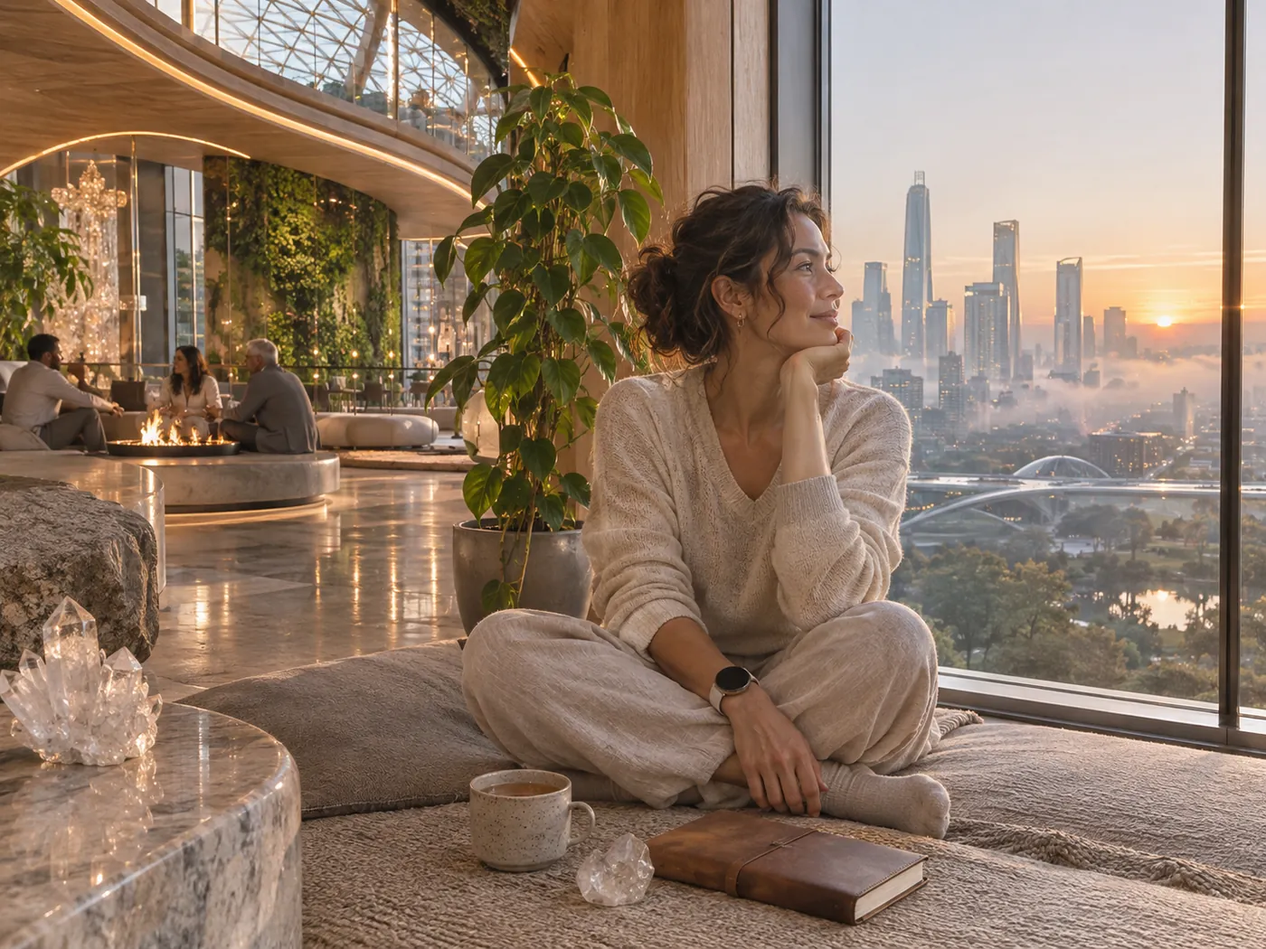
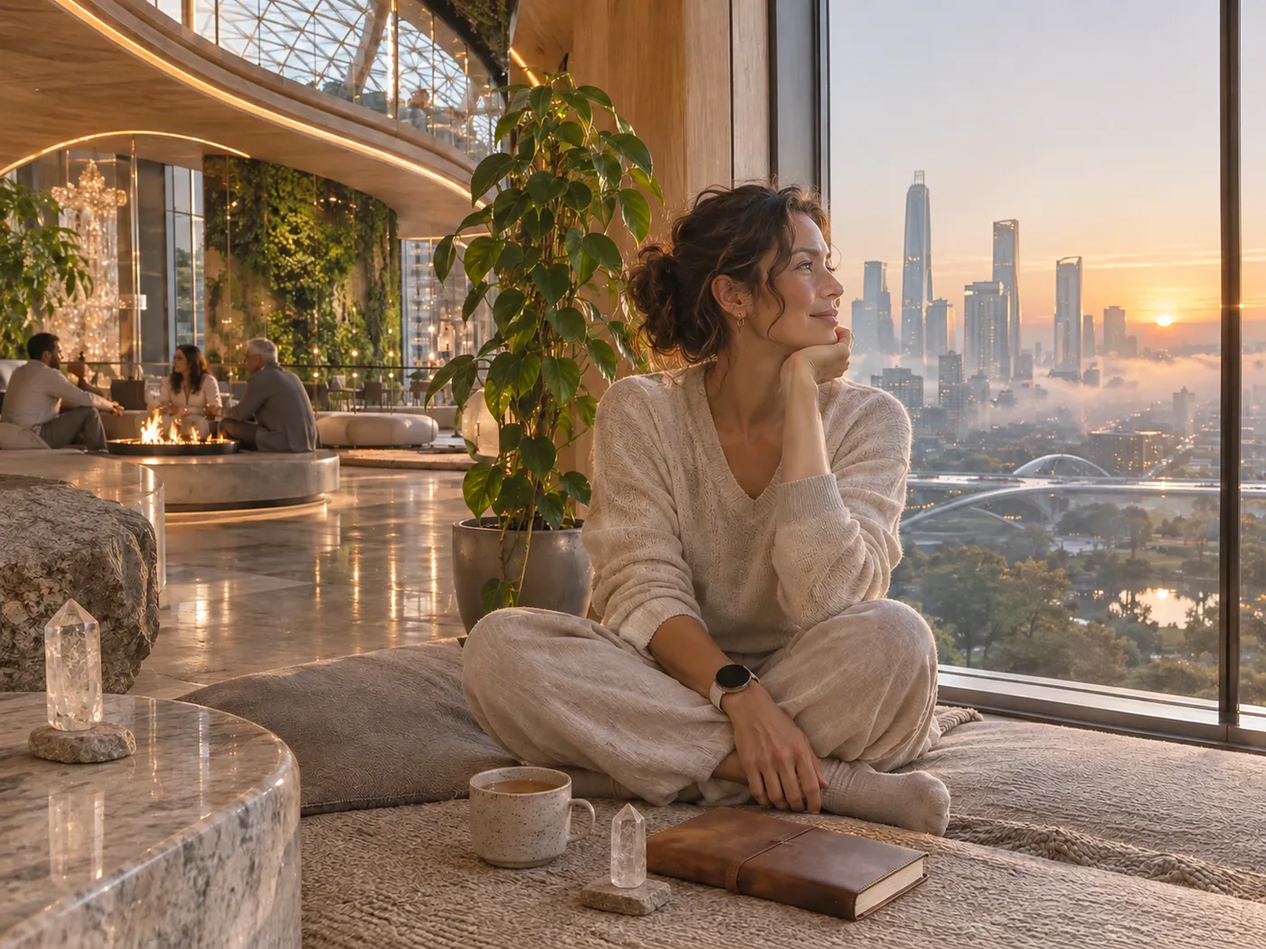
Crystals as placed vertical points, local stone, fluid roadmap stepper
- Re-edit 13 images: crystals become one to three vertical quartz points
  on stone or timber pedestals, no multi-directional clusters
- Add local stone to the materials toolbox and a new section on stone and
  materials by candidate region, with sources
- Add a Local stone card to the city page and crystal guidelines to the
  visual language and color docs
- Rebuild the roadmap stepper: each stage is a self-contained block so
  numbers never shift; mobile rail scrolls with snap and follows the
  selected stage

diff --git a/website/src/components/Home/home.css b/website/src/components/Home/home.css
@@ -243,16 +243,22 @@ html:has(.lc-home){scroll-behavior:smooth;scroll-padding-top:72px;-webkit-text-s
 /* ROADMAP */
 .lc-home .roadmap{position:relative;padding-block:clamp(var(--space-20),10vw,var(--space-32));overflow:hidden;isolation:isolate}
 .lc-home .roadmap-bg{position:absolute;right:-8%;top:0;height:100%;width:55%;object-fit:cover;z-index:-1;opacity:.35;mask-image:linear-gradient(90deg,transparent,#000 60%);-webkit-mask-image:linear-gradient(90deg,transparent,#000 60%)}
-.lc-home .stages{position:relative;display:grid;grid-template-columns:repeat(6,1fr);gap:var(--space-2)}
-.lc-home .stages::before{content:"";position:absolute;left:0;right:0;top:21px;height:2px;background:var(--night-line)}
-.lc-home .stages::after{content:"";position:absolute;left:0;top:21px;height:2px;width:calc(var(--prog,0)*1%);background:linear-gradient(90deg,var(--gold),var(--gold-glow));transition:width 1.6s var(--ease)}
-.lc-home .stage{position:relative;z-index:1;text-align:left;padding-top:0;min-height:44px}
-.lc-home .stage .dot{display:grid;place-items:center;width:44px;height:44px;border-radius:50%;background:var(--night);border:1.5px solid var(--night-line);font:400 1rem var(--display);transition:all .3s}
+/* Roadmap stepper: each stage is a self-contained block (dot + connector + label), so rows never shift */
+.lc-home .stages{--dot:44px;--gap:var(--space-4);position:relative;display:grid;grid-template-columns:repeat(6,minmax(0,1fr));gap:var(--gap);margin:0;padding:0;list-style:none}
+.lc-home .stage{position:relative;display:flex;flex-direction:column;align-items:flex-start;justify-content:flex-start;gap:0;min-width:0;margin:0;padding:0;border:0;background:none;color:inherit;font:inherit;text-align:left;cursor:pointer;-webkit-tap-highlight-color:transparent}
+.lc-home .stage::before{content:"";position:absolute;top:calc(var(--dot)/2 - 1px);left:calc(var(--dot) + 6px);right:calc(-1*var(--gap) + 6px);height:2px;border-radius:1px;background:var(--night-line)}
+.lc-home .stage:last-child::before{display:none}
+.lc-home .stage.done::before{background:var(--gold-glow)}
+.lc-home .stage.current::before{background:linear-gradient(90deg,var(--gold-hi) 0,var(--gold-hi) 35%,var(--night-line) 35%)}
+.lc-home .stage .dot{flex:0 0 auto;display:grid;place-items:center;width:var(--dot);height:var(--dot);border-radius:50%;background:var(--night);border:1.5px solid var(--night-line);font:400 1rem/1 var(--display);transition:box-shadow .3s,border-color .3s,background .3s}
+.lc-home .stage:hover .dot,.lc-home .stage:focus-visible .dot{border-color:var(--gold-glow)}
+.lc-home .stage:focus-visible{outline:none}
 .lc-home .stage.done .dot{border-color:var(--gold-glow);color:var(--gold-glow)}
 .lc-home .stage.current .dot{background:var(--gold-hi);color:var(--ink);border-color:var(--gold-hi);box-shadow:0 0 0 6px rgba(233,184,90,.18)}
 .lc-home .stage[aria-selected="true"] .dot{box-shadow:0 0 0 6px rgba(246,211,140,.32)}
-.lc-home .stage .st{display:block;margin-top:var(--space-4);font-weight:600;font-size:var(--text-sm)}
-.lc-home .stage .sd{display:block;font-size:var(--text-xs);color:var(--night-muted)}
+.lc-home .stage .st{display:block;margin-top:var(--space-4);font-weight:600;font-size:var(--text-sm);line-height:1.3;white-space:nowrap}
+.lc-home .stage .sd{display:block;margin-top:2px;font-size:var(--text-xs);line-height:1.4;color:var(--night-muted)}
+.lc-home .stage[aria-selected="true"] .st{color:var(--gold-glow)}
 .lc-home .stage-detail{margin-top:var(--space-12);display:grid;grid-template-columns:1fr 1fr;gap:var(--space-10);max-width:960px;background:rgba(20,23,37,.7);backdrop-filter:blur(10px);border:1px solid var(--night-line);border-radius:var(--r-lg);padding:var(--space-8)}
 .lc-home .stage-detail h3{font:400 var(--text-xl)/1.1 var(--display)}
 .lc-home .stage-detail .when{color:var(--gold-glow);font-size:var(--text-sm);margin-top:var(--space-2)}
@@ -343,7 +349,9 @@ html:has(.lc-home){scroll-behavior:smooth;scroll-padding-top:72px;-webkit-text-s
   .lc-home .kpis>div:nth-child(n+3){border-top:1px solid var(--night-line)}
   .lc-home .day-scroll{overflow-x:auto;margin:0 calc(-1 * var(--space-5));padding:0 var(--space-5);scrollbar-width:none}
   .lc-home .day-track{min-width:560px}
-  .lc-home .stages{grid-template-columns:repeat(6,minmax(96px,1fr));overflow-x:auto;padding-bottom:var(--space-3)}
+  .lc-home .stages{display:flex;grid-template-columns:none;overflow-x:auto;overscroll-behavior-x:contain;scroll-snap-type:x mandatory;scroll-padding-inline:var(--space-3);-webkit-overflow-scrolling:touch;scrollbar-width:none;padding:8px var(--space-3) var(--space-3);margin-inline:calc(-1*var(--space-3))}
+  .lc-home .stages::-webkit-scrollbar{display:none}
+  .lc-home .stage{flex:0 0 128px;scroll-snap-align:start}
   .lc-home .stage-detail{grid-template-columns:1fr;padding:var(--space-6)}
   .lc-home .compare{grid-template-columns:1fr}
   .lc-home .cmp-a,.lc-home .cmp-b,.lc-home .cmp-c,.lc-home .cmp-d{grid-column:auto;grid-row:auto}

diff --git a/website/src/pages/city.tsx b/website/src/pages/city.tsx
@@ -51,7 +51,7 @@ export default function City(): JSX.Element {
         <Feature
           reverse
           img="city-dome-cutaway"
-          alt="Inside a timber gridshell dome: terraced apartments, a garden atrium, a quartz crystal sculpture and a sunken fire lounge"
+          alt="Inside a timber gridshell dome: terraced apartments, a garden atrium, tall quartz points on stone pedestals and a sunken fire lounge"
           kicker="Neighborhood"
           title="Communosphere"
           tag="TRL 7–9"
@@ -61,18 +61,18 @@ export default function City(): JSX.Element {
         </Feature>
         <Feature
           img="city-temple"
-          alt="Circular timber temple with an oculus lighting a central quartz crystal and a fire bowl"
+          alt="Circular timber temple with an oculus lighting a single tall quartz point on a round stone pedestal and a fire bowl"
           kicker="Inner ring"
           title="Temple & plaza"
           tag="TRL 9"
           specs={[['Use', 'Meditation, ceremony, gatherings'], ['Access', 'Open to all, no doctrine'], ['Build', 'Timber, rammed earth, stone'], ['Plaza', 'Markets, festivals, daily life']]}>
-          <p>A non-denominational temple for silence, meditation and community ceremonies, proportioned with sacred geometry, with a central crystal under the oculus and a fire bowl for evening gatherings. Participation in any practice is always voluntary.</p>
+          <p>A non-denominational temple for silence, meditation and community ceremonies, proportioned with sacred geometry, with a single upright quartz point on a stone pedestal under the oculus and a fire bowl for evening gatherings. Participation in any practice is always voluntary.</p>
           <p>The plaza beside it is the city's living room: morning markets, performances, seasonal festivals and the everyday crossing point of the whole community.</p>
         </Feature>
         <Feature
           reverse
           img="city-studios"
-          alt="Modern maker studio with a CNC router, 3D printer, woodworking benches and crystal cutting"
+          alt="Modern maker studio with a CNC router, 3D printer, woodworking benches and a quartz point on a timber stand"
           kicker="Middle ring"
           title="Studios & workshops"
           tag="TRL 9"
@@ -118,7 +118,7 @@ export default function City(): JSX.Element {
         </div>
       </Section>
 
-      <Section id="beyond-the-box" eyebrow="Beyond the box" title="Curved, healthy and affordable." lead="High-tech design, low-tech materials: computers find efficient curved shapes, then we build them from earth, timber, bamboo and lime that residents can handle. Curves use less material, hold heat better and are rated more beautiful in brain-imaging studies.">
+      <Section id="beyond-the-box" eyebrow="Beyond the box" title="Curved, healthy and affordable." lead="High-tech design, low-tech materials: computers find efficient curved shapes, then we build them from earth, stone, timber, bamboo and lime that residents can handle, chosen from what each site provides. Curves use less material, hold heat better and are rated more beautiful in brain-imaging studies.">
         <Feature
           img="form-printed-earth"
           alt="A cluster of 3D-printed earth dwellings with green roofs and a printer finishing a fourth dome"
@@ -142,6 +142,7 @@ export default function City(): JSX.Element {
         <div style={{marginTop: '3rem'}} />
         <Cards items={[
           {title: 'Clay plaster everywhere', kicker: 'Healthy interiors', img: 'form-earth-dome', text: 'Holds indoor humidity steady and removes ozone. The cheapest health upgrade, and it works on curves and in existing homes.'},
+          {title: 'Local stone', kicker: 'Materials follow the place', text: 'Plinths, terrace walls, hearths and paths in the stone of each region: granite and schist in Portugal, sandstone in New Mexico, basalt on volcanic land. Lowest carbon when quarried nearby.'},
           {title: 'Thin shells', kicker: 'Canopies & floors', img: 'form-thin-shell', text: 'Arched shells carry load in compression, using over 70% less concrete and allowing earth or recycled mixes.'},
           {title: 'Curved shell, efficient core', kicker: 'Practical', text: 'Kitchens, baths and storage stay straight inside curved rooms, so standard fittings still work and costs stay down.'},
           {title: 'Bio-resonance as research', kicker: 'Frontier', text: 'We will compare matched curved and boxy rooms for sleep, stress and acoustics with university partners, and publish results either way.'},

diff --git a/website/src/pages/homes.tsx b/website/src/pages/homes.tsx
@@ -33,11 +33,11 @@ export default function Homes(): JSX.Element {
       <Section alt id="types" eyebrow="Home types" title="Choose the scale of private life you need.">
         <Feature
           img="home-tiny"
-          alt="Four curved-timber tiny homes with green roofs and large windows around a courtyard garden with a sunken fire circle and a quartz crystal, a glass dome behind"
+          alt="Four curved-timber tiny homes with green roofs and large windows around a courtyard garden with a sunken fire circle and a vertical quartz point set on a stone base, a glass dome behind"
           kicker="Tiny home · 200–300 sf"
           title="Tiny home"
           tag="$500–700 / month">
-          <p>A self-contained curved-timber home with a sleeping niche, a compact kitchen and bath, big windows and a deck. Tiny homes are grouped in fours around a shared courtyard with planted beds, a sunken fire circle and a crystal centerpiece, so neighbors share outdoor space naturally.</p>
+          <p>A self-contained curved-timber home with a sleeping niche, a compact kitchen and bath, big windows and a deck. Tiny homes are grouped in fours around a shared courtyard with planted beds, a sunken fire circle and a single quartz point on a stone base, so neighbors share outdoor space naturally.</p>
           <ul>
             <li><strong>Best for:</strong> singles, artists, newcomers and contribution-based residents</li>
             <li><strong>Where:</strong> garden clusters on the outer ring, a short walk from a communosphere</li>
@@ -47,7 +47,7 @@ export default function Homes(): JSX.Element {
         <Feature
           reverse
           img="home-studio"
-          alt="Modern studio with curved timber walls, a bed niche, a crystal pendant light and a window over the dome atrium"
+          alt="Modern studio with curved timber walls, a bed niche, a glass pendant light and a window over the dome atrium"
           kicker="Studio · 400–500 sf"
           title="Studio"
           tag="$700–950 / month">

diff --git a/website/src/components/Home/initHome.ts b/website/src/components/Home/initHome.ts
@@ -172,9 +172,12 @@ const ST: Array<[string, string, string, string, string[], string[]]> = [
   ['Operational', '2032 onward', '', 'Break-even and the move to community governance.', [], ['200 residents, break-even at 180', 'Community Council with 80% consent threshold', 'Phase 2 planning (1,500 residents)']],
 ];
 const stages = $('#stages'), sd = $('#stageDetail');
-stages.innerHTML = ST.map(([n, w, st], i) => `<button class="stage ${st === 'current' ? 'current' : ''}" role="tab" aria-selected="false" data-i="${i}"><span class="dot">${i + 1}</span><span class="st">${n}</span><span class="sd">${w}</span></button>`).join('');
+const cur = ST.findIndex(r => r[2] === 'current');
+stages.innerHTML = ST.map(([n, w, st], i) => `<button type="button" class="stage ${st === 'current' ? 'current' : i < cur ? 'done' : ''}" role="tab" aria-selected="false" data-i="${i}"><span class="dot">${i + 1}</span><span class="st">${n}</span><span class="sd">${w}</span></button>`).join('');
 function stage(i: number) {
   $$('.stage').forEach(b => b.setAttribute('aria-selected', String(+b.dataset.i === i)));
+  const btn = stages.children[i] as HTMLElement;
+  if (btn && stages.scrollWidth > stages.clientWidth) stages.scrollTo({left: Math.max(0, btn.offsetLeft - 12), behavior: 'smooth'});
   const [n, w, st, d, done, todo] = ST[i];
   const label = st === 'current' ? 'In progress' : st === 'next' ? 'Up next' : 'Planned';
   sd.innerHTML = `<div><h3>Stage ${i + 1} · ${n}</h3><p class="when">${w} · ${label}</p><p>${d}</p>${st === 'current' ? `<p class="upd">Schedule updated November 2026</p>` : ''}</div><ul>${done.map(x => `<li class="done">${x}</li>`).join('')}${todo.map(x => `<li${st === 'current' ? ' class="todo"' : ''}>${x}</li>`).join('')}</ul>`;

diff --git a/website/src/pages/journey.tsx b/website/src/pages/journey.tsx
@@ -26,7 +26,7 @@ export default function Journey(): JSX.Element {
         <Feature
           id="awakening"
           img="journey-awakening"
-          alt="A person in a cotton knit reflecting by a city apartment window at dawn, a small crystal and tea beside her"
+          alt="A person in a cotton knit reflecting by a city apartment window at dawn, a small quartz point on a stand and tea beside her"
           kicker="Movement 1 · Now – 2027 · Stages 1–3"
           title="Awakening"
           tag="From distraction to attention"
@@ -61,7 +61,7 @@ export default function Journey(): JSX.Element {
           reverse
           id="flourishing"
           img="journey-flourishing"
-          alt="A shared dinner at long timber tables inside a glass dome, a fire hearth and crystal glowing nearby"
+          alt="A shared dinner at long timber tables inside a glass dome, a fire hearth and a quartz point on a stone pedestal nearby"
           kicker="Movement 4 · 2032+ · Stage 6"
           title="Flourishing"
           tag="From survival to contribution"

diff --git a/website/src/pages/index.tsx b/website/src/pages/index.tsx
@@ -149,7 +149,7 @@ export default function Home(): JSX.Element {
 
       {/* IMAGE BAND */}
       <section className="band">
-        <img src={img('dome-interior')} alt="Sunlight streams through a timber gridshell dome over trees, a reflecting pool, a quartz crystal and a sunken fire circle where people gather" width="1400" height="788" loading="lazy" />
+        <img src={img('dome-interior')} alt="Sunlight streams through a timber gridshell dome over trees, a reflecting pool, a single vertical quartz point on a stone pedestal and a sunken fire circle where people gather" width="1400" height="788" loading="lazy" />
         <div className="band-in wrap">
           <blockquote>Ambitious in form.<br />Conservative in engineering.</blockquote>
           <p>Every structure uses materials already standing elsewhere — from Norway's 85.4 m Mjøstårnet timber tower to timber gridshells, earth domes and 3D-printed homes of local soil.</p>

diff --git a/website/docs/design/organic-forms-and-materials.md b/website/docs/design/organic-forms-and-materials.md
@@ -65,6 +65,7 @@ Methods ordered from cheapest and simplest to most engineered. Costs are indicat
 | **Hempcrete** | Curved walls cast in forms | Installed $260–400/sf for recent US homes ([HempBuild](https://www.hempbuildmag.com/home/3-us-hempcrete-homes-2026)) | Breathable, carbon-storing | **Scaling** ([IRC Appendix BL](https://www.portotheme.com/hempcrete-vs-traditional-insulation-vs-mycelium-performance-cost-and-use-cases/)) | Insulating infill in timber frames; not a cost saver yet |
 | **Timber gridshell** | Long-span double curves | Weald & Downland: gridshell 28% of £1,097/m² gross; erection labor is the main cost ([Univ. of Bath](https://purehost.bath.ac.uk/ws/portalfiles/portal/187940865/UnivBath_MPhil_2012_D_J_Naicu.pdf)) | Natural wood surfaces | **Proven** | Studios, greenhouses, dome roofs, market halls |
 | **Thin funicular shells** | Vaults, floors, canopies | 70%+ less concrete; can use earth or recycled mixes ([ETH BRG](https://block.arch.ethz.ch/brg/publications/1106)) | Less cement | **Scaling** | Plaza canopies, floors in multi-level domes |
+| **Local stone (dry-stone and lime-mortar masonry)** | Plinths, garden and terrace walls, thick curved walls, vaults | Lowest embodied carbon of common materials when quarried nearby; transport can outweigh extraction ([MPA, 2026](https://www.mineralproducts.org/MPA/media/root/Publications/2026/MPA-Dimension-Stone-naturally-low%E2%80%91carbon-report-Sept-2026.pdf)) | Inert, no off-gassing, high thermal mass | **Proven** for thousands of years | Foundations and plinths under earth walls, terraces, temple and hearth walls, paths |
 | **Airform domes** | Monolithic domes | Fast, durable; uses spray foam and concrete | Foam needs careful specification | **Proven** | Storage, workshops, storm shelters (not living spaces by default) |
 
 ### Notes on the strongest options
@@ -83,6 +84,31 @@ Methods ordered from cheapest and simplest to most engineered. Costs are indicat
 
 ![Open-air pavilion under a thin shell canopy](/img/home/form-thin-shell.webp)
 
+## Stone, and materials that follow the place
+
+Stone is one of the oldest and most widely used building materials on Earth, from mountain villages to volcanic islands. It belongs in Light City alongside earth and timber, with one rule: **the land decides the materials.** We build with what is underfoot or close by, and import only what the place cannot provide.
+
+**Why stone.** Locally quarried natural stone has among the lowest embodied carbon of common building materials, averaging about 0.09 kg CO₂e per kg, but shipping it far can outweigh the quarrying itself ([Mineral Products Association, 2026](https://www.mineralproducts.org/MPA/media/root/Publications/2026/MPA-Dimension-Stone-naturally-low%E2%80%91carbon-report-Sept-2026.pdf)). A French study found cut-stone load-bearing walls 1.4 times less impactful than CLT and 2.7 times less than slag concrete at typical thicknesses ([Buildings & Cities](https://reference-global.com/download/article/10.5334/bc.278.pdf)). Stone is durable, repairable and reusable, and its thermal mass evens out day and night temperatures.
+
+**A living craft.** Dry-stone building, without any mortar, is recognised by UNESCO as intangible cultural heritage across 13 European countries, including Spain ([UNESCO](https://ich.unesco.org/en/RL/the-art-of-dry-stone-walling-knowledge-and-techniques-02106)). On the Azores island of Pico, black basalt gathered on site built the walls, houses and cellars of a UNESCO World Heritage landscape ([UNESCO](https://whc.unesco.org/en/list/1117/)). In central Portugal, 27 restored schist villages show how local stone, clay and chestnut wood can be brought back to life ([Aldeias do Xisto](https://www.aldeiasdoxisto.com/en/villages/territory/)). In New Mexico, the ancestral Pueblo great houses of Chaco Canyon stand more than five storeys of sandstone and mud mortar after nearly a thousand years ([UNESCO](https://whc.unesco.org/en/list/353/)).
+
+**How we use it.** Stone works best where it is strongest: in compression, close to the ground and in contact with water. Typical uses are plinths that keep earth walls dry, retaining walls for terraces, paths and courtyards, hearths and fire circles, the temple's inner wall, and thick walls in hot-dry climates. Glulam gridshells and glass stay above for light and long spans.
+
+**Watch-outs.** Stone is heavy, so it needs careful engineering in earthquake zones (unreinforced masonry performs poorly). Dressing stone takes skilled labor, and only stone from the site or a nearby quarry keeps its low-carbon promise.
+
+### Materials by candidate region
+
+Each [candidate region](/docs/project/site-locations) has its own palette. The structure of the domes (glulam gridshell and glass) stays the same everywhere; walls, floors and landscape change with the place.
+
+| Region | Main local materials | How the city would look and feel |
+|---|---|---|
+| **Northern New Mexico** | Adobe, rammed earth, sandstone, ponderosa and piñon timber | Earth-colored walls on sandstone plinths, deep window reveals, flat earth roofs on small buildings, as in the state's earthen code |
+| **Klamath Basin, Oregon** | Mass timber and cob, local volcanic rock | Timber-forward buildings with cob infill, basalt plinths and garden walls, steep roofs for snow |
+| **Central Portugal** | Granite and schist, rammed earth (taipa), chestnut and cork | Stone plinths and terrace walls on the slopes, lime-washed earth walls, cork insulation, chestnut beams |
+| **Granada highlands, Spain** | Earth sheltering into clay hills, rammed earth, local stone | Homes partly dug into the hillside like the region's cave houses, white lime finishes, stone dry-walls on terraces |
+| **Northern Costa Rica** | Timber and bamboo frames, river and volcanic stone, earth infill | Light, open, raised frames for airflow and earthquakes, stone only at the base and in landscape walls, deep roofs for rain |
+| **Islands (if a future site is an island)** | Volcanic basalt or coral limestone, lime | Low, thick stone walls against wind and salt, as on Pico in the Azores |
+
 ---
 
 ## Applying it to Light City
@@ -92,7 +118,7 @@ Methods ordered from cheapest and simplest to most engineered. Costs are indicat
 | **Communosphere domes** | Steel frame and flat panels | CLT or glulam gridshell over curved terraces; clay-plastered interiors | Gridshell uses less wood; flat glazing panels |
 | **Tiny homes** | Rectangular modules | Earthbag or printed-earth pods in clusters of 3–6 around a shared courtyard | Local soil; resident labor counts toward contribution-based residency |
 | **Family ring housing** | Straight terraces | Gently curved terraces built from faceted prefab timber panels | Flat panels, curved plan |
-| **Temple & quiet rooms** | Hall with flat ceiling | Earth or timber dome tuned acoustically, with an oculus | Small spans; acoustic modeling is cheap compared with fixes |
+| **Temple & quiet rooms** | Hall with flat ceiling | Earth, stone or timber dome tuned acoustically, with an oculus and one vertical quartz point on a stone pedestal at the center | Small spans; acoustic modeling is cheap compared with fixes |
 | **Studios & market hall** | Shed | Timber or bamboo gridshell | Long span with little material |
 | **Greenhouses** | Glass box | Gridshell with polycarbonate or glass | Proven agricultural shapes |
 | **Plaza canopies & floors** | Concrete slab | Thin funicular shells | 70% less concrete |

diff --git a/website/docs/design/color-and-light.md b/website/docs/design/color-and-light.md
@@ -2,7 +2,7 @@
 
 *Palette and lighting rules for the website, diagrams, photos and the built city*
 
-![Dome interior at dusk: warm LED light, clay walls, a fire bowl and crystal accents](/img/home/dome-interior.webp)
+![Dome interior at dusk: warm LED light, clay walls, a fire bowl and a single quartz point on a stone pedestal](/img/home/dome-interior.webp)
 
 *Modern Organic light: warm integrated LED, daylight through glass, clay and timber surfaces, and a place for fire.*
 
@@ -42,6 +42,7 @@ Use light tints (about 15–30% opacity) of the nature accents for panel fills. 
 - **Warm and circadian.** Evening light is warm (2,200–3,000 K) and dimmable; daytime light can be cooler. Integrated LED lines sit in timber ribs and coves, not bare fixtures.
 - **Fire stays.** Fire bowls, hearths and sculptural fire features are part of shared spaces, indoors and out, with proper ventilation.
 - **Crystal as accent.** Quartz and glass catch and split light in small doses: a centerpiece, a window, a lamp. Never a whole wall of crystal.
+- **Crystals are placed, not scattered.** Show natural quartz as one, two or three vertical points, set with intention into the ground on a stone or earth base, or on a simple pedestal or stand. No clusters shooting in every direction and no glowing, game-style crystals.
 - **Dark skies.** Exterior light points down, is shielded and is warm, so stars stay visible.
 - **Spire light.** The spire crown can carry programmable light for gatherings; it stays off or low on ordinary nights.
 

diff --git a/website/docs/design/visual-language.md b/website/docs/design/visual-language.md
@@ -22,7 +22,7 @@ This guide keeps every Light City image, diagram and page consistent and readabl
 
 Use this style note at the end of every image prompt:
 
-> Curved glulam and CLT, timber gridshells, glass, living walls, rammed earth and clay plaster, warm integrated LED, quartz crystal accents, sculptural fire features. People in linen, cotton and raw silk in off-white, sand, sage and terracotta. Realistic documentary photo with a quiet sense of wonder. No text or logos. Avoid medieval, rustic cabins and fantasy.
+> Curved glulam and CLT, timber gridshells, glass, living walls, rammed earth and clay plaster, warm integrated LED, quartz crystal accents (one to three vertical points on a pedestal or set into the ground, never game-style clusters), local stone, sculptural fire features. People in linen, cotton and raw silk in off-white, sand, sage and terracotta. Realistic documentary photo with a quiet sense of wonder. No text or logos. Avoid medieval, rustic cabins and fantasy.
 
 - **Scale.** Domes 30–45 m across, 3–5 levels; the spire is slender, not a skyscraper.
 - **People.** Diverse ages and backgrounds, doing ordinary things: cooking, working, building, resting.
